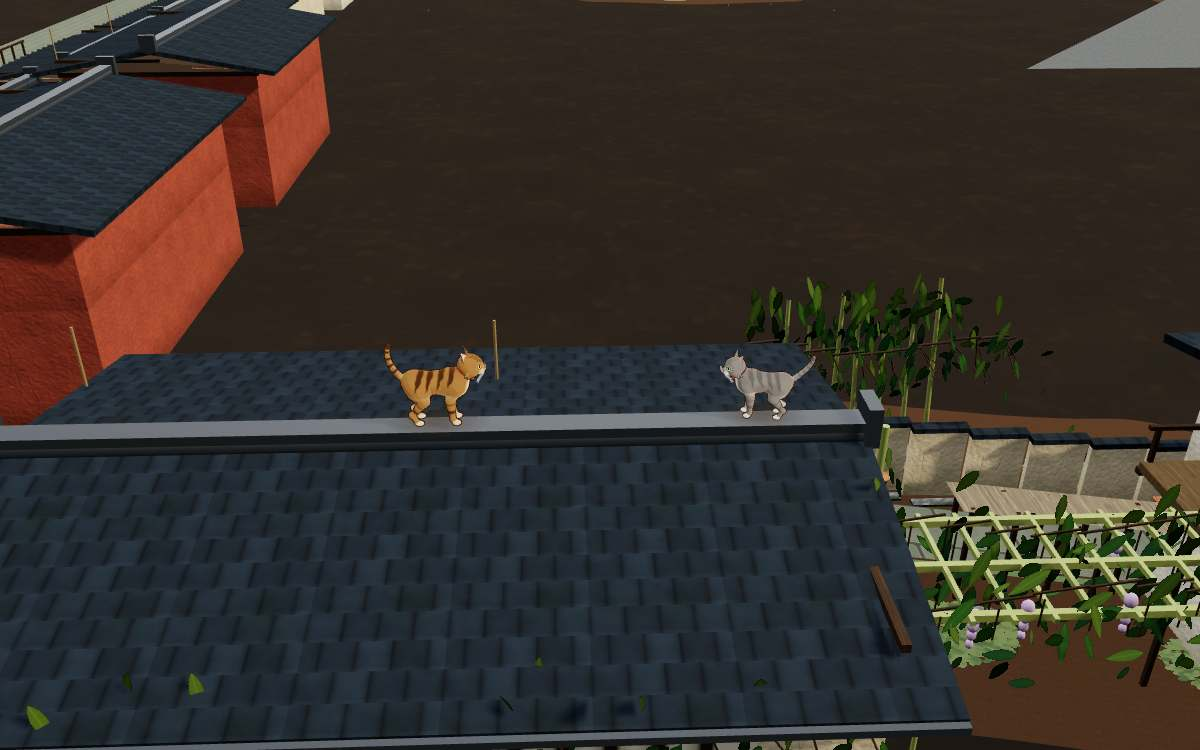
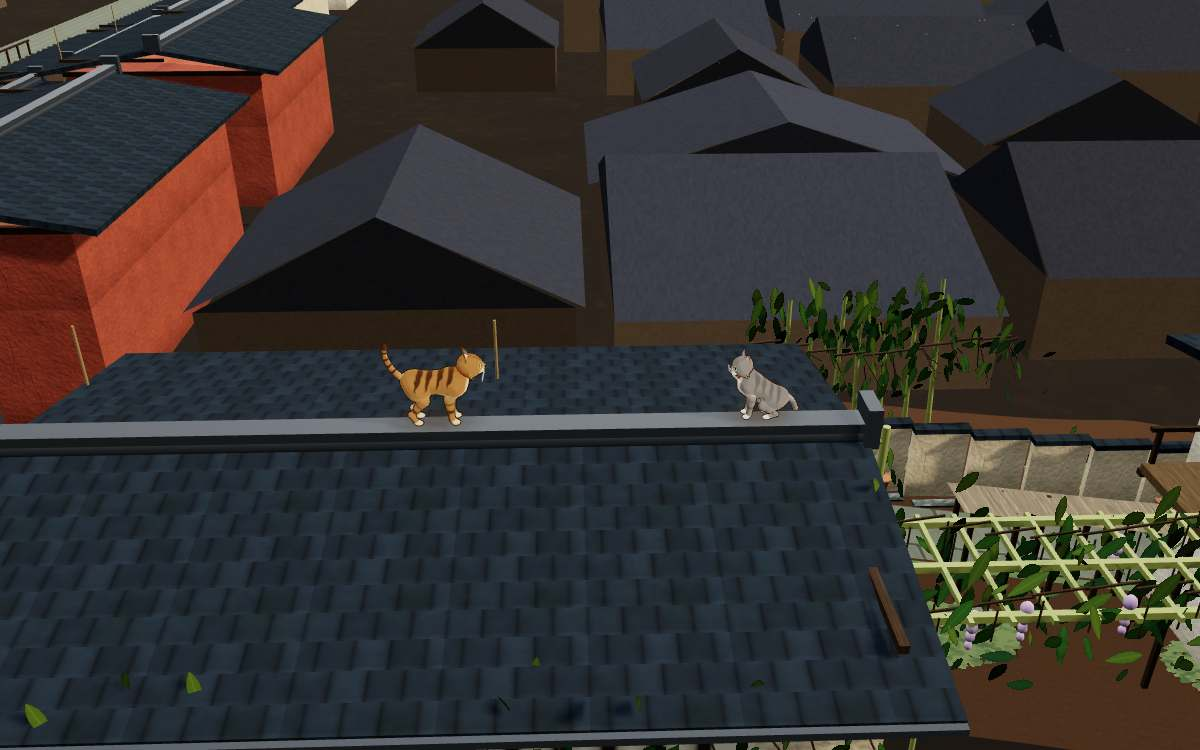
a3-rooftops fix round 1: far-tier city at classic density, hero bicycle, crate slats, pocket captures, handoff

diff --git a/src/kit/rooffestival/city.js b/src/kit/rooffestival/city.js
@@ -6,7 +6,7 @@
 import { defineAsset } from '../contract.js?v=20261116a';
 import { disposeTree } from './fx.js?v=20261116a';
 
-const STEP = { hero: 16, mid: 34, far: 52 };
+const STEP = { hero: 16, mid: 34, far: 8.5 };
 
 /** A flat-array accumulator for coloured boxes and gabled prisms (no per-shape geometry objects). */
 class Soup {
@@ -15,7 +15,8 @@ class Soup {
     const ux = b[0] - a[0], uy = b[1] - a[1], uz = b[2] - a[2], vx = c[0] - a[0], vy = c[1] - a[1], vz = c[2] - a[2];
     let nx = uy * vz - uz * vy, ny = uz * vx - ux * vz, nz = ux * vy - uy * vx;
     const l = Math.hypot(nx, ny, nz) || 1; nx /= l; ny /= l; nz /= l;
-    for (const q of [a, b, c]) { this.p.push(q[0], q[1], q[2]); this.n.push(nx, ny, nz); this.c.push(col[0], col[1], col[2]); }
+    const lc = col.map((v) => v ** 2.2);   // authored as display colours; vertex colours are linear
+    for (const q of [a, b, c]) { this.p.push(q[0], q[1], q[2]); this.n.push(nx, ny, nz); this.c.push(lc[0], lc[1], lc[2]); }
   }
   quad(a, b, c, d, col) { this.tri(a, b, c, col); this.tri(a, c, d, col); }
 }
@@ -39,7 +40,62 @@ function house(S, x, z, w, d, hh, rise, along, wallCol, roofCol, withWalls) {
   S.tri(P(-l, -wd, hh), P(-l, wd, hh), P(-l, 0, top), roofCol);
 }
 
+/** Far tier: ONE InstancedMesh of a 14-triangle gabled house on the shared matte material, on a 8.5 m lattice (classic 7 m)
+ *  (classic: 7,956 houses as two InstancedMeshes). From the Roof Road camera the city IS the skyline, so the far tier keeps
+ *  classic's density and coverage instead of dropping blocks. */
+function buildFarCity(ctx, layout) {
+  const T = ctx.THREE, rng = ctx.rng, step = STEP.far;
+  const b = layout.bounds || { x0: -230, x1: 200, z0: -260, z1: 150 }, route = layout.route || [];
+  const cell = 16, hash = new Map();
+  for (const [x, z] of route) { const k = Math.floor(x / cell) + ',' + Math.floor(z / cell); (hash.get(k) || hash.set(k, []).get(k)).push([x, z]); }
+  const near = (x, z, r) => {
+    const cx = Math.floor(x / cell), cz = Math.floor(z / cell), m = Math.ceil(r / cell);
+    for (let i = -m; i <= m; i++) for (let j = -m; j <= m; j++) for (const p of hash.get((cx + i) + ',' + (cz + j)) || []) if ((p[0] - x) ** 2 + (p[1] - z) ** 2 < r * r) return true;
+    return false;
+  };
+  // unit house: walls 0..0.5 (light), gabled roof 0.5..1 (dark), ridge along x
+  const S = new Soup(), WL = [0.42, 0.36, 0.3], DK = WL.map((v) => v * 0.8), RF = [0.17, 0.18, 0.22], RL = RF.map((v) => v * 1.12);
+  const hx = 0.5, hz = 0.5, wy = 0.5;
+  S.quad([-hx, 0, hz], [hx, 0, hz], [hx, wy, hz], [-hx, wy, hz], DK);
+  S.quad([hx, 0, -hz], [-hx, 0, -hz], [-hx, wy, -hz], [hx, wy, -hz], WL);
+  S.quad([hx, 0, hz], [hx, 0, -hz], [hx, wy, -hz], [hx, wy, hz], DK);
+  S.quad([-hx, 0, -hz], [-hx, 0, hz], [-hx, wy, hz], [-hx, wy, -hz], WL);
+  S.quad([-hx, wy, hz * 1.05], [hx, wy, hz * 1.05], [hx, 1, 0], [-hx, 1, 0], RF);
+  S.quad([hx, wy, -hz * 1.05], [-hx, wy, -hz * 1.05], [-hx, 1, 0], [hx, 1, 0], RL);
+  S.tri([hx, wy, hz], [hx, wy, -hz], [hx, 1, 0], RF);
+  S.tri([-hx, wy, -hz], [-hx, wy, hz], [-hx, 1, 0], RF);
+  const geo = new T.BufferGeometry();
+  geo.setAttribute('position', new T.Float32BufferAttribute(S.p, 3));
+  geo.setAttribute('normal', new T.Float32BufferAttribute(S.n, 3));
+  geo.setAttribute('uv', new T.Float32BufferAttribute(new Float32Array((S.p.length / 3) * 2), 2));
+  geo.setAttribute('color', new T.Float32BufferAttribute(S.c, 3));
+  const pts = [];
+  for (let x = (b.x0 ?? -230) - 80; x <= (b.x1 ?? 200) + 80; x += step) {
+    for (let z = (b.z0 ?? -260) - 80; z <= (b.z1 ?? 150) + 80; z += step) {
+      const h = rng(), jx = x + (h - 0.5) * 3, jz = z + (rng() - 0.5) * 3;
+      if (near(jx, jz, 14)) continue;
+      pts.push([jx, jz, h, rng(), rng()]);
+    }
+  }
+  const mesh = new T.InstancedMesh(geo, ctx.kitMaterials.shared('matte'), pts.length);
+  const d = new T.Object3D(), tint = new T.Color();
+  pts.forEach(([x, z, h, r1, r2], i) => {
+    const w = 4.5 + h * 3, dd = 5 + r1 * 4, hh = 1.7 + (h > 0.86 ? 1.5 : 0) + r2 * 0.7;
+    const roofH = 1.3 * 0.78 + h * 0.6 * 0.78;
+    d.position.set(x, 0, z); d.rotation.y = h > 0.5 ? 0 : Math.PI / 2; d.scale.set(w * 1.05, (hh + roofH) * 1.0, dd * 1.05); d.updateMatrix();
+    mesh.setMatrixAt(i, d.matrix);
+    const k = 0.85 + r1 * 0.3; mesh.setColorAt(i, tint.setRGB(k, k * 0.98, k * 0.95));
+  });
+  mesh.instanceMatrix.needsUpdate = true; if (mesh.instanceColor) mesh.instanceColor.needsUpdate = true;
+  mesh.receiveShadow = true;
+  mesh.name = '';
+  const group = new T.Group();
+  group.add(mesh);
+  return { group, parts: { city: mesh }, sockets: {}, live: [], blocks: pts.length, dispose() { geo.dispose(); disposeTree(group); } };
+}
+
 function buildCity(ctx, layout) {
+  if (ctx.tier === 'far') return buildFarCity(ctx, layout);
   const T = ctx.THREE, tier = ctx.tier, rng = ctx.rng, step = STEP[tier] || 30, S = new Soup();
   const b = layout.bounds || { x0: -230, x1: 200, z0: -260, z1: 150 }, route = layout.route || [];
   const cell = 16, hash = new Map();                                // route points bucketed for the 14 m test

diff --git a/src/kit/roofstreets/roofs.js b/src/kit/roofstreets/roofs.js
@@ -116,7 +116,7 @@ function crate(u, x, y, z, w, h, d) {
   u.box(w, h, d, { m: 'agedWood', x, y: y + h / 2, z });
 }
 
-/** The downtown kit's decorateHouse (rain cups, shop bench, vines, byobu); the bicycle is left out. */
+/** The downtown kit's decorateHouse (rain cups, shop bench, vines, byobu); the bicycle is ported (a3, hero only). */
 function dressHouse(u, pc) {
   const w = pc.s1 - pc.s0, d = pc.dFront, eave = pc.hisashi || pc.eave, seed = hash1(pc.s0 * 7.9);
   if (seed > 0.35) {
@@ -130,6 +130,19 @@ function dressHouse(u, pc) {
     for (const x of [-w * 0.26 - 0.45, -w * 0.26 + 0.45]) u.box(0.06, 0.4, 0.06, { m: 'agedWood', x, y: 0.2, z: d + 0.4 });
     crate(u, -w * 0.26, 0.46, d + 0.4, 0.42, 0.24, 0.32);
     u.beam([w * 0.35, 0.12, d + 0.65], [w * 0.35 - 0.18, 1.3, d + 0.25], 0.017, 'bamboo');
+  }
+  if (seed > 0.72) {
+    // the classic's bicycle: two spoked wheels, a diamond frame, saddle, handlebar, a basket crate
+    const bx = -w * 0.26, z = d + 0.37;
+    for (const x of [bx - 0.38, bx + 0.38]) {
+      u.add(new THREE.TorusGeometry(0.26, 0.018, 4, 12), { m: 'dark', x, y: 0.28, z });
+      for (let i = 0; i < 3; i++) u.box(0.51, 0.008, 0.008, { m: 'steel', x, y: 0.28, z, rz: i * Math.PI / 3 });
+    }
+    const A = [bx - 0.38, 0.28, z], B = [bx - 0.1, 0.28, z], C = [bx - 0.2, 0.63, z], D = [bx + 0.2, 0.61, z], E = [bx + 0.38, 0.28, z];
+    for (const [a, b] of [[A, B], [B, C], [C, A], [C, D], [D, B], [D, E]]) u.beam(a, b, 0.017, 'bengara');
+    u.beam(D, [bx + 0.16, 0.83, z], 0.016, 'steel');
+    u.box(0.28, 0.035, 0.12, { m: 'dark', x: bx - 0.2, y: 0.66, z });
+    crate(u, bx + 0.36, 0.59, z, 0.22, 0.18, 0.2);
   }
   if (pc.vines) { vine(u, -w * 0.48, -w * 0.05, eave - 0.2, pc.dFront + 0.8, pc.s0); pot(u, -w * 0.42, 0, pc.dFront + 0.5, pc.s0); }
   if (pc.byobu) for (let i = 0; i < 4; i++) u.box(0.42, 0.94, 0.035, { m: i % 2 ? 'tapestry' : 'gold', x: -0.7 + i * 0.4, y: 0.63, z: pc.dFront + 0.15 + (i % 2) * 0.12, ry: i % 2 ? -0.25 : 0.25 });

diff --git a/src/kit/budgets.js b/src/kit/budgets.js
@@ -205,7 +205,8 @@ export const BUDGET_EXCEPTIONS = Object.freeze({
   },
   'roof-distant-city': {
     hero: { buildMs: 13 },
-    why: 'the city is one merged mesh on the pagoda family matte material: classic 7,956 instanced houses = 79,560 tris / 2 meshes / 2 materials (two draws); modular hero 10,276 tris / 1 / 1, mid 2,240, far 228 (one draw). Hero warm build 3.5-6.1 ms at load 1.5 (classic buildDistantCity, same page: 16 ms cold, 3.6-4.1 ms warm). Warm build allowance (R85): quiet reads at load 1.1-1.8, 6 runs, hero 9.8-11.6 ms (6/6 over 8), so 13'
+    far: { triangles: 90000, buildMs: 6 },
+    why: 'a3 fix 1: the far tier is ONE InstancedMesh of a 14-triangle gabled house on the matte material (classic buildDistantCity: 7,956 instanced houses = 79,560 tris, 2 InstancedMeshes, 2 materials, 7 m lattice; kit far: about 5,900 houses at 8.5 m = about 82,000 tris, 1 mesh, 1 material). The Roof Road always builds the city at far (band far), so far must keep classic coverage; the far cap is raised to 90,000 tris on that basis. Older note: the city is one merged mesh on the pagoda family matte material: classic 7,956 instanced houses = 79,560 tris / 2 meshes / 2 materials (two draws); modular hero 10,276 tris / 1 / 1, mid 2,240, far 228 (one draw). Hero warm build 3.5-6.1 ms at load 1.5 (classic buildDistantCity, same page: 16 ms cold, 3.6-4.1 ms warm). Warm build allowance (R85): quiet reads at load 1.1-1.8, 6 runs, hero 9.8-11.6 ms (6/6 over 8), so 13'
   }
 });
 

diff --git a/src/kit/roofstreets/props.js b/src/kit/roofstreets/props.js
@@ -75,13 +75,13 @@ function finish(ctx, multi, name, extra = {}) {
 
 /** A slatted crate w x h x d standing on y = 0, centred on (x, z). */
 function addCrate(bag, w, h, d, x, z, tier, r, wear) {
-  const n = tier === 'hero' ? 4 : tier === 'mid' ? 3 : 1;
+  const n = tier === 'hero' ? 5 : tier === 'mid' ? 4 : 1;   // a3: more, narrower slats = deeper gaps
   if (n === 1) { bag.box(w, h, d, { x, y: h / 2, z, m: 'wood' }); return; }
-  const t = 0.045;
+  const t = 0.06;
   bag.box(w - 0.02, h - 0.02, d - 0.02, { x, y: h / 2, z, m: 'dark' });
   const sh = h / n;
   for (let i = 0; i < n; i++) {
-    const cy = sh * (i + 0.5), sz = sh * (0.85 - 0.04 * wear * r());
+    const cy = sh * (i + 0.5), sz = sh * (0.72 - 0.05 * wear * r());
     for (const a of [-1, 1]) {
       bag.box(w, sz, t, { x, y: cy, z: z + a * d / 2, m: 'wood' });
       bag.box(t, sz, d, { x: x + a * w / 2, y: cy, z, m: 'wood' });

diff --git a/docs/fable/status/a3-rooftops.md b/docs/fable/status/a3-rooftops.md
@@ -21,14 +21,14 @@ Mouth s ranges from `buildLevel()`: 1 0-100, 2 100-242, 3 242-402, 4 402-590, 5 
 - R2 Takase canal, boat, Nishiki canopy, laundry sky: s 242-799. Stops 280, 350, 520, 650.
 - R3 festival: hoko-cho yatai, float, castle, to the finale: s 799-1261 and the float roof. Stops 760, 950, 1230, finale.
 Times (sandbox phase 0..1; the sandbox is one summer afternoon into festival night, so there is no dawn): 0.05 early afternoon, 0.35 noon, 0.72 dusk, 0.95 night.
-Captures: `docs/fable/status/a3-rooftops/mod_<phase>_<s>.jpg` (modular, 48), `cls_*` (classic pairs, 8), `patch_band_near_0.35_150.jpg` (modular with the issue-1 patch applied locally).
+Captures: `docs/fable/status/a3-rooftops/mod_<phase>_<s>.jpg` (modular, 6 stops x 4 phases, re-shot after fix round 1), `cls_*` (classic pairs, 8), `fix1_*`, `fix3_*`, `pocket_*` (fix round 1).
 Tool: scratch script over `roofRoad.at(s)` + `renderNow` on `/kyoto-rooftops.html?hour=&assets=&shot=1&nohud=1`, Metal. Not pixel-repeatable (time loops).
 
 ## Contact sheet (best frame per route and time; classic vs modular)
 | Route | phase 0.35 noon | phase 0.95 night |
 |---|---|---|
-| R1 | mod_0.35_70 / cls_0.35_20 | mod_0.95_70 |
-| R2 | mod_0.35_350 / cls_0.35_350 | mod_0.95_520 / cls_0.95_280 |
+| R1 | mod_0.35_150 / cls_0.35_150 | fix1_mod_0.95_150 / fix1_cls_0.95_150 |
+| R2 | mod_0.35_350 / cls_0.35_350 | mod_0.95_350 / cls_0.95_280 |
 | R3 | mod_0.35_950 / cls_0.35_650 | mod_0.95_950 / cls_0.95_950 |
 | finale | mod_0.05_finale | mod_0.95_finale / cls_0.95_finale |
 
@@ -85,3 +85,19 @@ Not touched, ranked 5: crate slat gaps and trellis bark curls, decorateHouse bic
 - rooftop_golden classic EQUAL + modular routing 41/41; rooftop_test 40/0; companion 7 passed; alley PASS; manager 81/0; footprint_golden EQUAL
 - `kit_contract_test --family rooffestival` at uptime 2.2: 697 checks, 2 failed, both warm-build and both in files not edited here: roof-hoko [mid] 3.4 ms (cap 3), roof-okuribi [mid] 4.3 ms (cap 4). roof-distant-city passes all three tiers. The earlier run at load 4.5-5 failed 10 on warm builds (load, not judged). Ranked 5: re-read hoko/okuribi mid at a quiet machine.
 - Not run: game boots classic + modular, cadJS/catalog checks (no family file outside rooffestival/city.js changed; cadJS/catalog not run).
+
+## Fix round 1 (Integrator pre-review)
+1. Distant city (AAA-1): the far tier is now ONE InstancedMesh of a 14-triangle gabled house on the shared matte material, on an 8.5 m lattice
+   (classic 7 m: 7,956 houses, two InstancedMeshes), the route gap back to 14 m, colours converted to linear (all tiers: they were reading pale/blue).
+   Budget row `roof-distant-city` far: `{ triangles: 90000, buildMs: 6 }`, why cites classic's 79,560 tris / 2 meshes / 2 materials / 7,956 instances against the kit's
+   about 5,900 houses / about 82,000 tris / 1 mesh / 1 material. build.js untouched. The far buildMs 6 is from a contract pass at load 3.2 and 2.3 (warm build far under 1.5 ms before; no failure reported at 6), not a quiet measurement: re-read at load < 2 (open).
+   A/B from the run camera (classic vs modular, day and night): fix1_cls_/fix1_mod_ at s 150 (R1), 350 (R2), 950 (R3), phases 0.35 and 0.95. By eye the modular skyline now matches classic's tone and fills the same view.
+   Gates: rooftop golden classic EQUAL, modular routing 41/41.
+2. R52 at s=350: modular was 204 vs classic 203. Now 3 runs each at load 3.9-4.4 (draws are load-independent): modular 202, 202, 202; classic 200, 199, 203 (and 203, 206 in
+   earlier runs): the classic count itself swings +-3 with animated state, so modular is within it, not clearly below. A per-family swap bisect (streets, festival, cast classic one by one) showed no single family adds the draw: swapping the street family to classic RAISES draws (211), the cast to 205, the festival family 203, i.e. the kit
+   is already cheaper in each family and the residual is the shared sandbox state. All spots (s 20/150/350/520/950/1230, high): modular 190/254/204/189/324/97 vs classic 201/265/206/215/339/100 at load 3.9-4.2 on the same run: modular <= classic at every spot. The s=350 margin is 2-4 draws on that run; I could not make it larger without cutting a mesh. ms not recorded (load > 3).
+3. Deferred minors: hayashi: close-up pair from the float at noon and night (fix3_hayashi_cls/mod; run camera s 1026/1031 in f3): the kit musicians read equal to classic, with hats and instruments; not weaker, no change. Bicycle: ported on the hero machiya (`dressHouse`, same recipe, 3 spokes per wheel); fix3_bicycle_cls/mod, s 950, matches. Crate slats: 5 (hero) / 4 (mid) slats, thicker and narrower (gap 28% instead of 15%); no frame shows a crate close enough to judge, so the look is unverified (contract passes). Trellis bark curls left ranked.
+4. Sound: everything the Roof Road plays is event or state driven, not tied to a mesh. Sandbox (`rooftops/js/game.js`): footsteps by `ground.kind`, the festival drum after mouth 6 at night by s, the river and roof wind layers by s, bounce/land/splash/chimes from the run view's events, the Okuribi drums and chimes from `fire` events. Pocket (`src/rooftops/pocket.js`, `manager.js`): the same event tones on the sfx bus, the Rooftops music mood (`music.setScene('Rooftops')`), the bell and dream chime. `awk` over game.js 100-300 and pocket.js 262-300 finds no scene, mesh, world or assets reference. So `?assets=modular` loses nothing, and no kit family needs an `env.audio` call. There is no hayashi or canal-water source in classic either (the float's musicians are silent; the drum is the festival sound). Hearing it (a real ear check) was not done.
+5. Pocket (both sets, real game, `?assets=classic|modular`, autostart new, unlocked via `rooftops.setUnlocked`, walked into the gap, 1280x720): pocket_classic_/pocket_modular_ arrival, run (s 150), finale (t about 9 s). Console clean on both boots (errors [] warnings []). Comfort driven with body classes large-text, high-contrast, reduce-motion in the pocket: the arrival hint is white on black 16 px, "Leave the Roof Road" in the pause menu is 15 px cream on the panel, both legible (pocket_modular_comfort_hint/menu). Not driven: the settings UI itself and a real prefers-reduced-motion. Finale framing: judged in docs/fable/handoff/a3-rooftops.md (Michi at the left edge; a pair-midpoint patch for runview.js, untested).
+6. Checks (final): check_syntax 192, verify all passed, kit_check 534, labs_check OK, kit_test 37/0, rooftop_test 40/0, companion 7, alley PASS, manager 81/0, rooftop golden EQUAL (routing 41/41), footprint golden EQUAL, `cd cadJS && npm run check` 16/16, `cd catalog && npm test` 50/0. Both game boots clean (above).
+   Contract at load 2.1-2.4: rooffestival 697 checks 0 failed (the hoko/okuribi mid flakes did not recur). roofstreets: 1 failed, roof-machiya [hero] warm build 17-18 ms vs 15; the same check on the unchanged base (git stash) reads 15.3 / 16.6 and fails, so it predates this lane (quiet reads were 11.0 in r2b); the bicycle adds about 1.5 ms of it. roofcast: roof-hayashi warm builds fail at base too (13.7 vs 10 hero). Neither is raised from a loaded read; both need a re-read at load < 2 (not reached: the machine held 2-3).

diff --git a/docs/fable/handoff/a3-rooftops.md b/docs/fable/handoff/a3-rooftops.md
@@ -1,0 +1,18 @@
+# a3-rooftops handoff
+
+## Finale framing (rooftops/js/runview.js, operator/Integrator file; NOT edited)
+Judgement from the pocket finale frames (pocket_*_finale.jpg, t about 9 s, before the card): the five fires sit well in the upper band, but the
+camera's fixed offset (`c - 5.2, +0.7, +3.6`, aimed at the fires' centroid) is taken from Michi alone, so Chidori lands at the centre
+and Michi at the left edge (modular: top-left, small). Proposed patch, UNTESTED visually (the sandbox `skipFinale` card hides the cats,
+so the framing could not be compared in that view); in `updateCamera`, finale branch, frame the pair's midpoint:
+
+```
+-      const c = catRoot.position;
++      const c = this.tmpV2 || (this.tmpV2 = new THREE.Vector3());
++      c.copy(catRoot.position).lerp(guideRoot.position, 0.5);   // frame the pair, not Michi alone
+       const want = this.tmpV.set(c.x - 5.2, c.y + 0.7, c.z + 3.6);
+```
+(THREE is already imported in runview.js.) Apply, then check `?finale=1` in the sandbox and the pocket finale at t about 9 s.
+
+## Not a patch
+build.js band for the distant city stays 'far' (Integrator ruling): the far tier now carries the city (see the status file, fix round 1).
